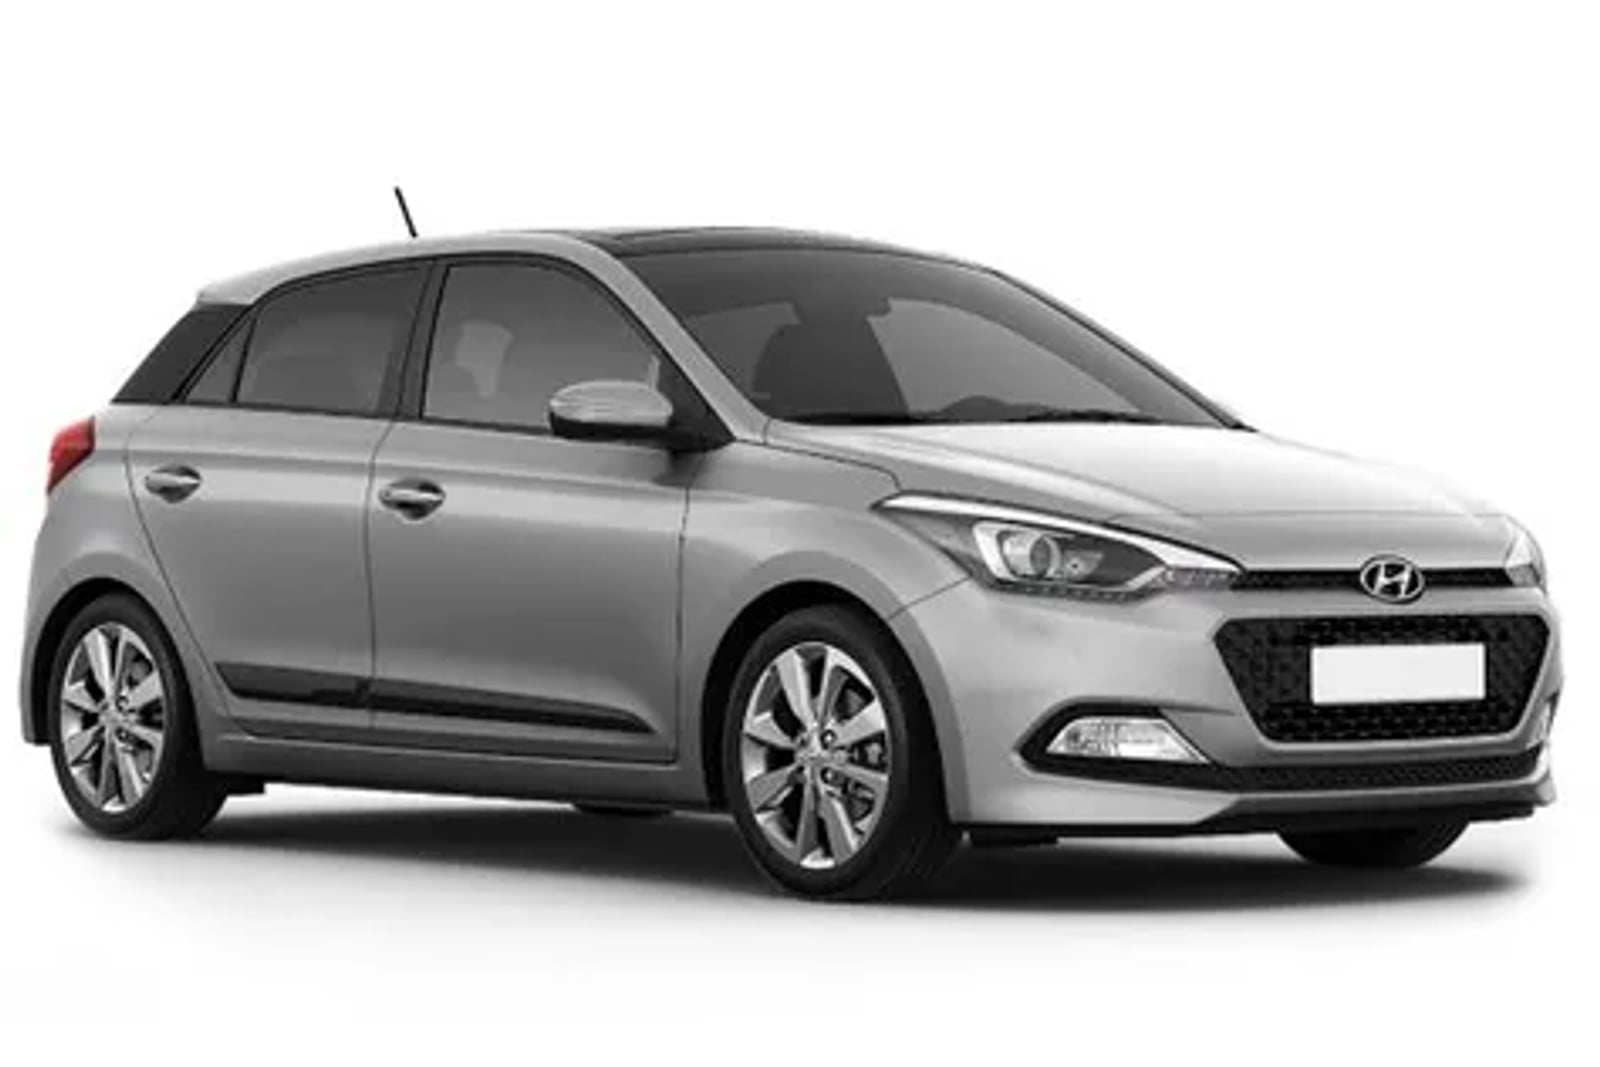
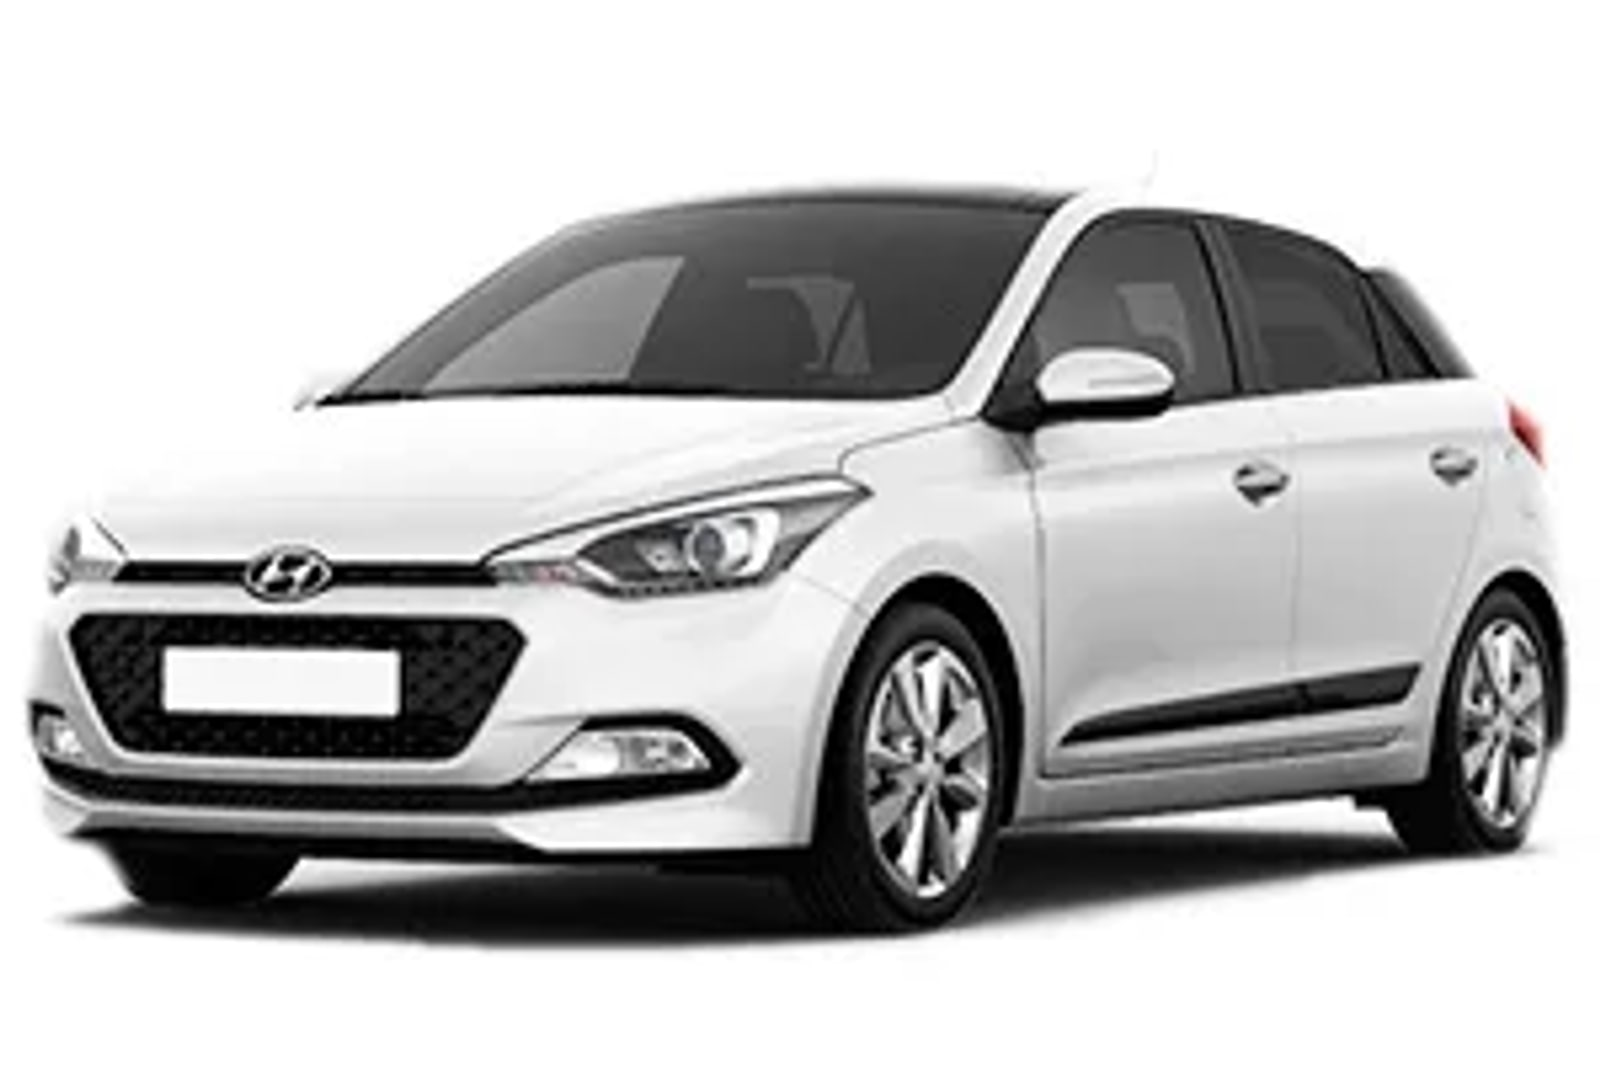
fleet: white-body LocalRent images + fix gallery crop + dark footer fade
All 13 fleet cars now use clean white-body LocalRent showroom images
(kia-stonic the only exception — only gray/red exist on LocalRent, picked
gray 2023). VW Golf and Fiat 500 sourced from different LocalRent
city inventories since Kotor (city_id=9) inventory doesn't list them.

Gallery crop fix in CarGallery CSS: aspect-ratio 3/2 → 16/10, padding
6%/8% → 2%/4%, removed stage overflow:hidden. LocalRent press shots
have whitespace composition; full car now always visible, no roof clip.

Footer top fade: light-white gradient (rgba 255/0.6) → dark #2A2A2A to
#1A1A1A matching site's dark palette elsewhere.

Hero: swapped to Pexels green Mini Cooper headlight shot (#11469003).

diff --git a/src/App.css b/src/App.css
@@ -2388,7 +2388,7 @@ h1, h2, h3, h4, h5, h6 {
   left: 0;
   right: 0;
   height: 80px;
-  background: linear-gradient(to bottom, rgba(255,255,255,0.6), transparent);
+  background: linear-gradient(to bottom, #2A2A2A, #1A1A1A);
   pointer-events: none;
 }
 
@@ -3515,24 +3515,24 @@ h1, h2, h3, h4, h5, h6 {
 }
 .car-gallery__stage {
   position: relative;
-  aspect-ratio: 3/2;
+  aspect-ratio: 16/10;
   border-radius: 14px;
-  overflow: hidden;
   background: #ffffff;
+  overflow: visible;
 }
 .car-gallery__img {
   position: absolute;
   inset: 0;
   width: 100%;
   height: 100%;
-  /* contain (not cover) so the whole car is visible — LocalRent press shots
-     are composed with whitespace, cropping clips the roof/wheels. */
+  /* contain so the whole car is visible — LocalRent press shots
+     are composed with whitespace; never crop roof/wheels. */
   object-fit: contain;
   object-position: center;
   opacity: 0;
   transition: opacity 0.3s ease;
   pointer-events: none;
-  padding: 6% 8%;
+  padding: 2% 4%;
   box-sizing: border-box;
 }
 .car-gallery__img--active {

diff --git a/src/siteConfig.js b/src/siteConfig.js
@@ -9,7 +9,7 @@ const siteConfig = {
   hero: {
     headline: "Rent a Car in Herceg Novi",
     subheadline: "The entrance to the Bay of Kotor — Dubrovnik 40 minutes one way, Kotor Old Town 30 minutes the other. Orjen Mountain behind. Mamula Island offshore.",
-    image: "/img/hero-hercegnovi.webp",
+    image: "/img/hero-green-minicooper.jpg",
   },
 
   cars: [
